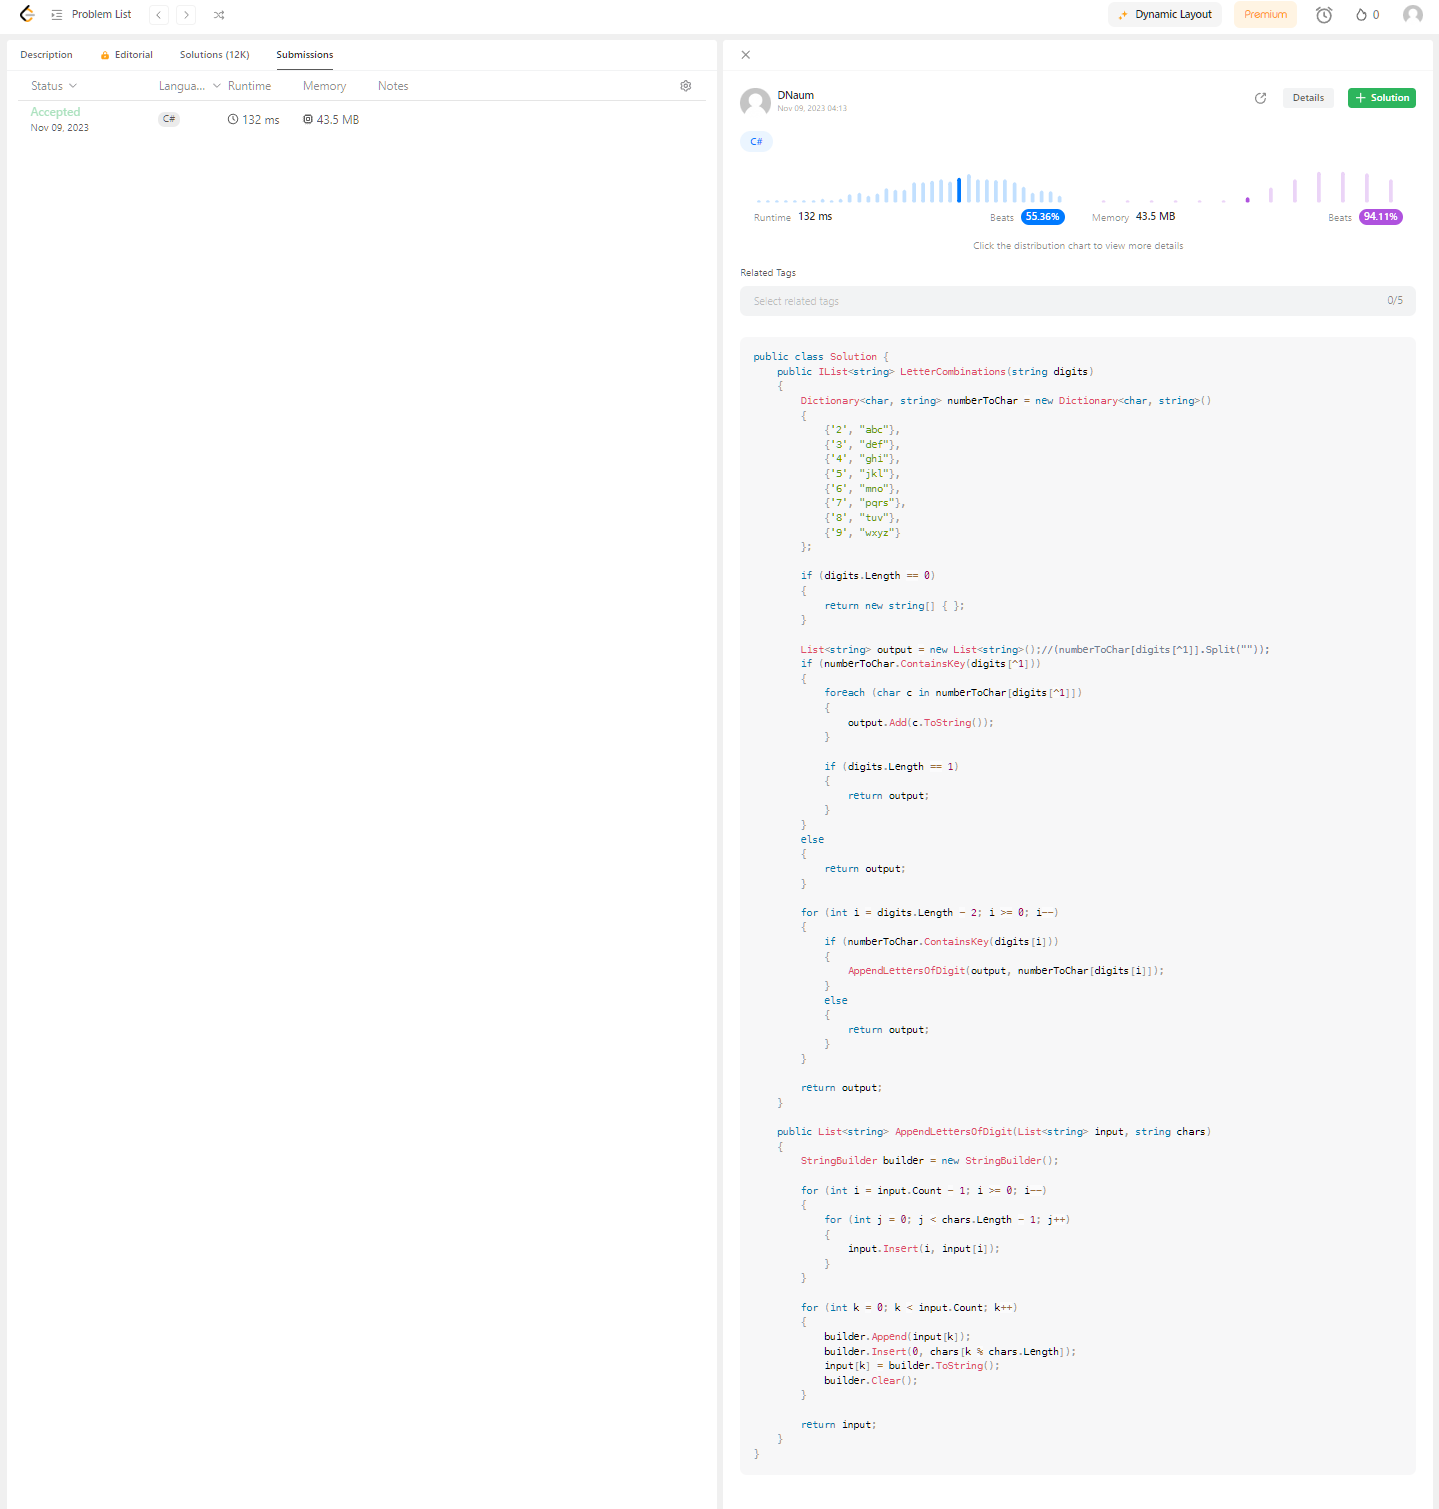
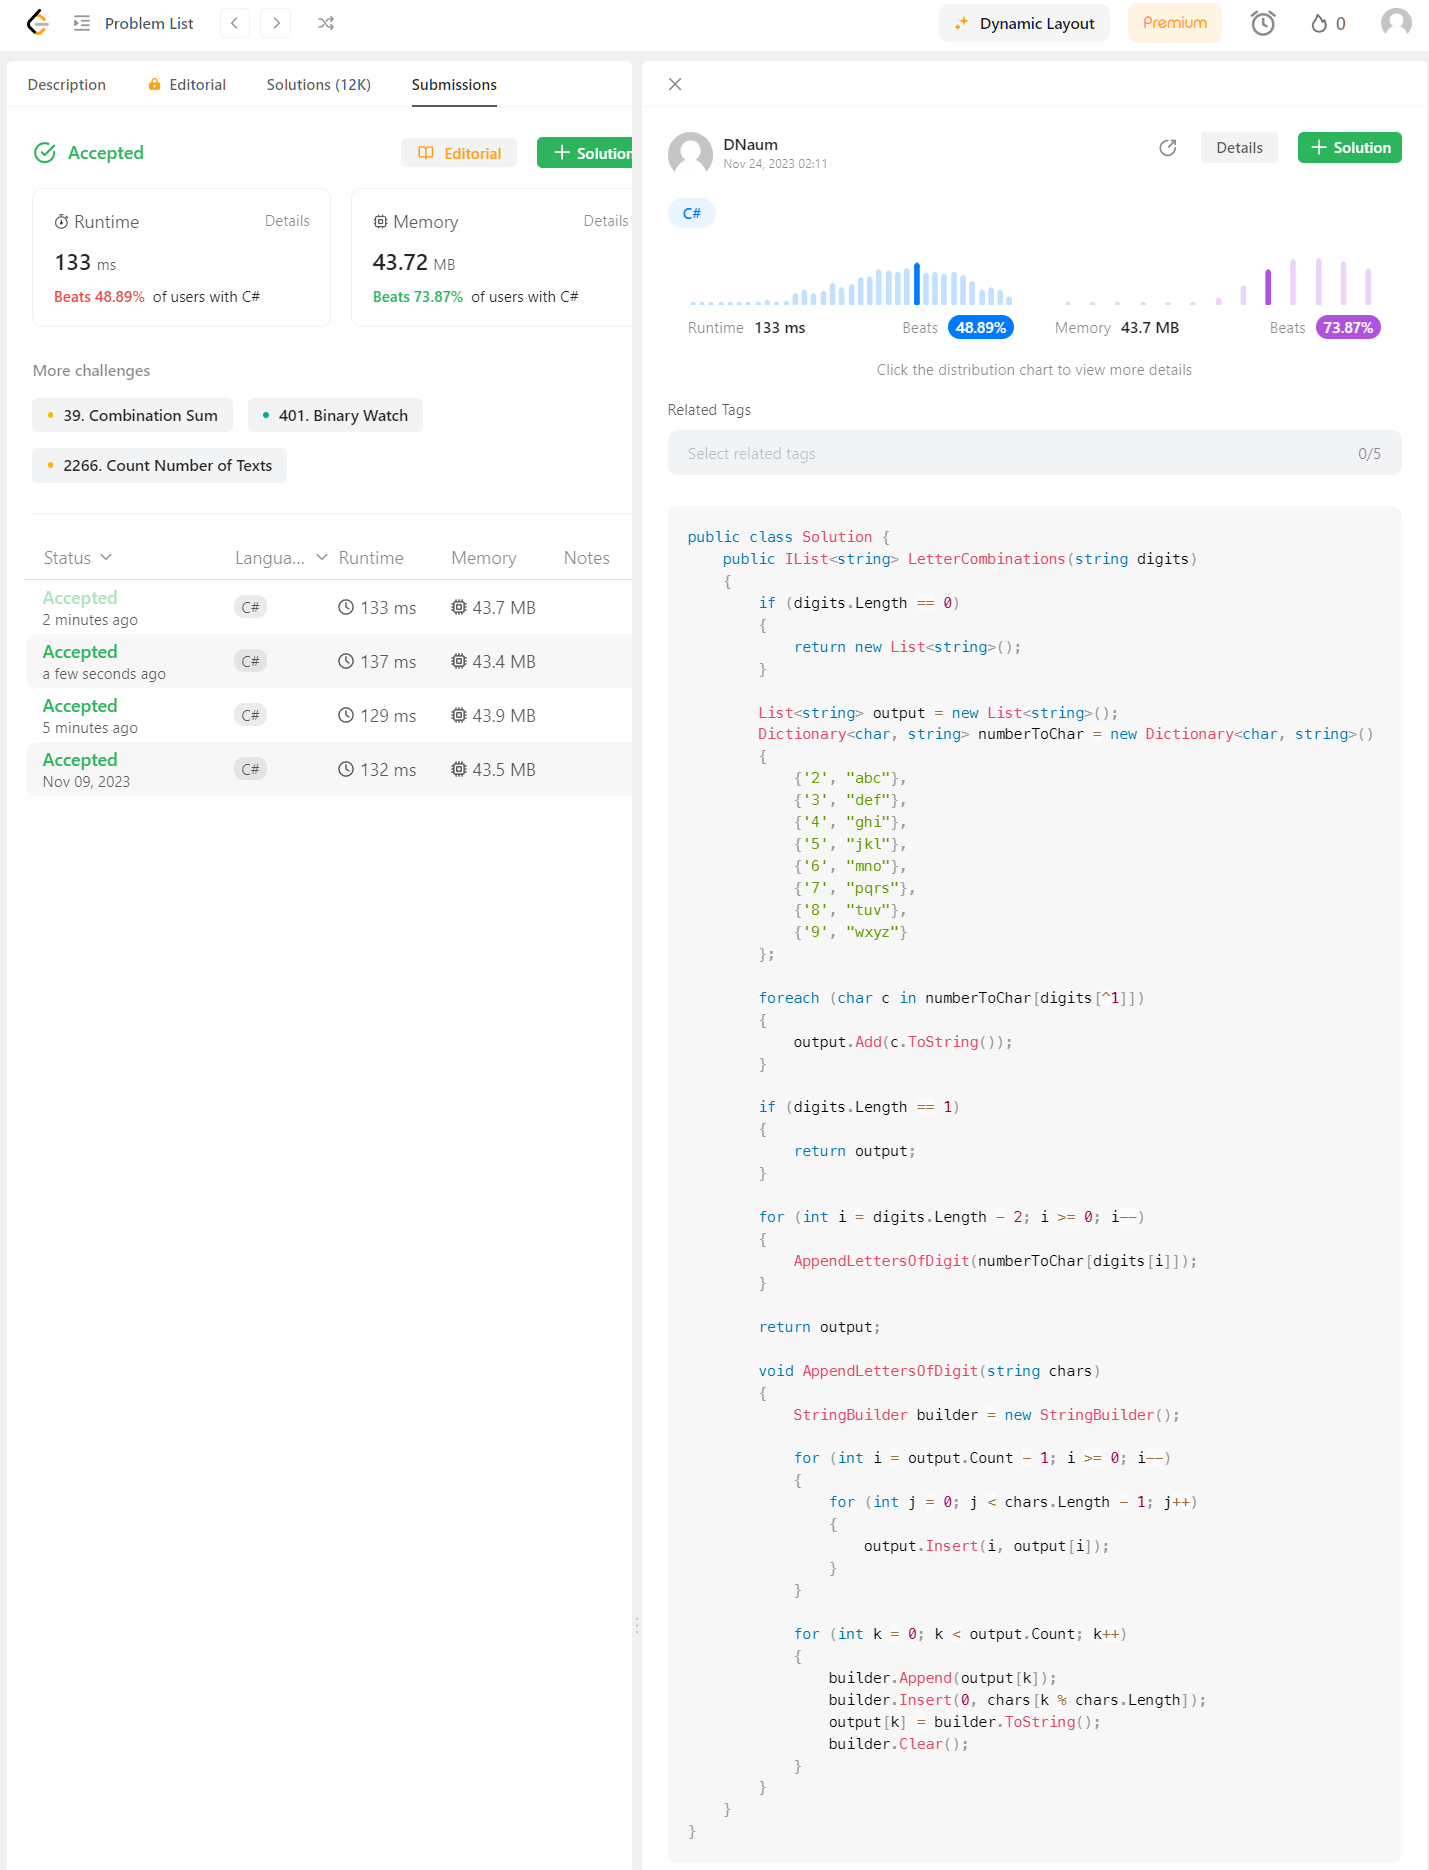
Rearranged solution, removed unnecessary checks and redundant blocks. Resubmitted code to LC and updated result screenshot.

diff --git a/ScnSoft-Education/LeetCodeTraining/PhoneNumberCombinations/PhoneNumberCombinationsSolution.cs b/ScnSoft-Education/LeetCodeTraining/PhoneNumberCombinations/PhoneNumberCombinationsSolution.cs
@@ -7,6 +7,12 @@ namespace LeetCodeTraining.PhoneNumberCombinations
     {
         public static IList<string> LetterCombinations(string digits)
         {
+            if (digits.Length == 0)
+            {
+                return new List<string>();
+            }
+
+            List<string> output = new List<string>();
             Dictionary<char, string> numberToChar = new Dictionary<char, string>()
             {
                 {'2', "abc"},
@@ -19,65 +25,43 @@ namespace LeetCodeTraining.PhoneNumberCombinations
                 {'9', "wxyz"}
             };
 
-            if (digits.Length == 0)
+            foreach (char c in numberToChar[digits[^1]])
             {
-                return new string[] { };
+                output.Add(c.ToString());
             }
 
-            List<string> output = new List<string>();
-            if (numberToChar.ContainsKey(digits[^1]))
-            {
-                foreach (char c in numberToChar[digits[^1]])
-                {
-                    output.Add(c.ToString());
-                }
-
-                if (digits.Length == 1)
-                {
-                    return output;
-                }
-            }
-            else
+            if (digits.Length == 1)
             {
                 return output;
             }
 
             for (int i = digits.Length - 2; i >= 0; i--)
             {
-                if (numberToChar.ContainsKey(digits[i]))
-                {
-                    AppendLettersOfDigit(output, numberToChar[digits[i]]);
-                }
-                else
-                {
-                    return output;
-                }
+                AppendLettersOfDigit(numberToChar[digits[i]]);
             }
 
             return output;
-        }
 
-        public static List<string> AppendLettersOfDigit(List<string> input, string chars)
-        {
-            StringBuilder builder = new StringBuilder();
-
-            for (int i = input.Count - 1; i >= 0; i--)
+            void AppendLettersOfDigit(string chars)
             {
-                for (int j = 0; j < chars.Length - 1; j++)
+                StringBuilder builder = new StringBuilder();
+
+                for (int i = output.Count - 1; i >= 0; i--)
                 {
-                    input.Insert(i, input[i]);
+                    for (int j = 0; j < chars.Length - 1; j++)
+                    {
+                        output.Insert(i, output[i]);
+                    }
+                }
+
+                for (int k = 0; k < output.Count; k++)
+                {
+                    builder.Append(output[k]);
+                    builder.Insert(0, chars[k % chars.Length]);
+                    output[k] = builder.ToString();
+                    builder.Clear();
                 }
             }
-
-            for (int k = 0; k < input.Count; k++)
-            {
-                builder.Append(input[k]);
-                builder.Insert(0, chars[k % chars.Length]);
-                input[k] = builder.ToString();
-                builder.Clear();
-            }
-
-            return input;
         }
     }
 }
